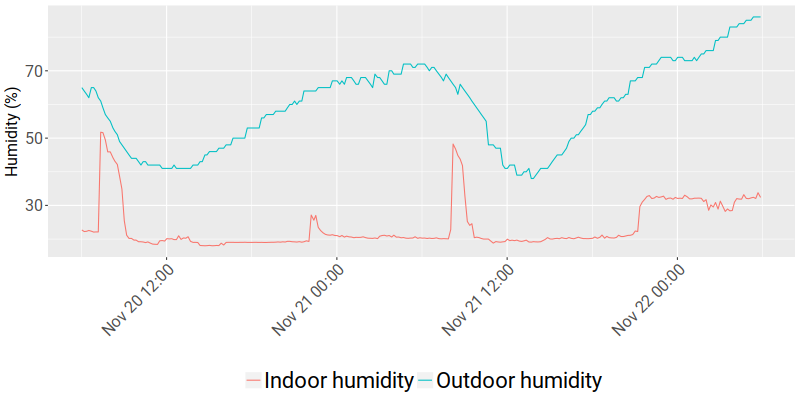
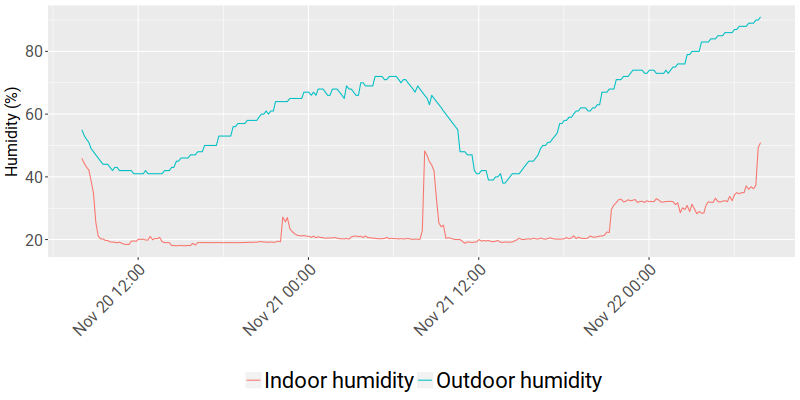
Update live temperature on site

diff --git a/temperature.js b/temperature.js
@@ -1,1 +1,1 @@
-document.write("<h4>Inside Temperature: 20.73°C</h4><h4>Outside Temperature: 9.31°C</h4><h4>Fermenter 1 Temperature: 85.0°C</h4><h4>Fermenter 2 Temperature: 20.38°C</h4><h4>Inside Humidity: 32.38%</h4><h4>Outside Humidity: 86.0%</h4><br>Last update: 2017-11-22 05:51:41");
+document.write("<h4>Inside Temperature: 21.0°C</h4><h4>Outside Temperature: 10.04°C</h4><h4>Fermenter 1 Temperature: 85.0°C</h4><h4>Fermenter 2 Temperature: 20.56°C</h4><h4>Inside Humidity: 50.91%</h4><h4>Outside Humidity: 91.0%</h4><br>Last update: 2017-11-22 07:51:38");
